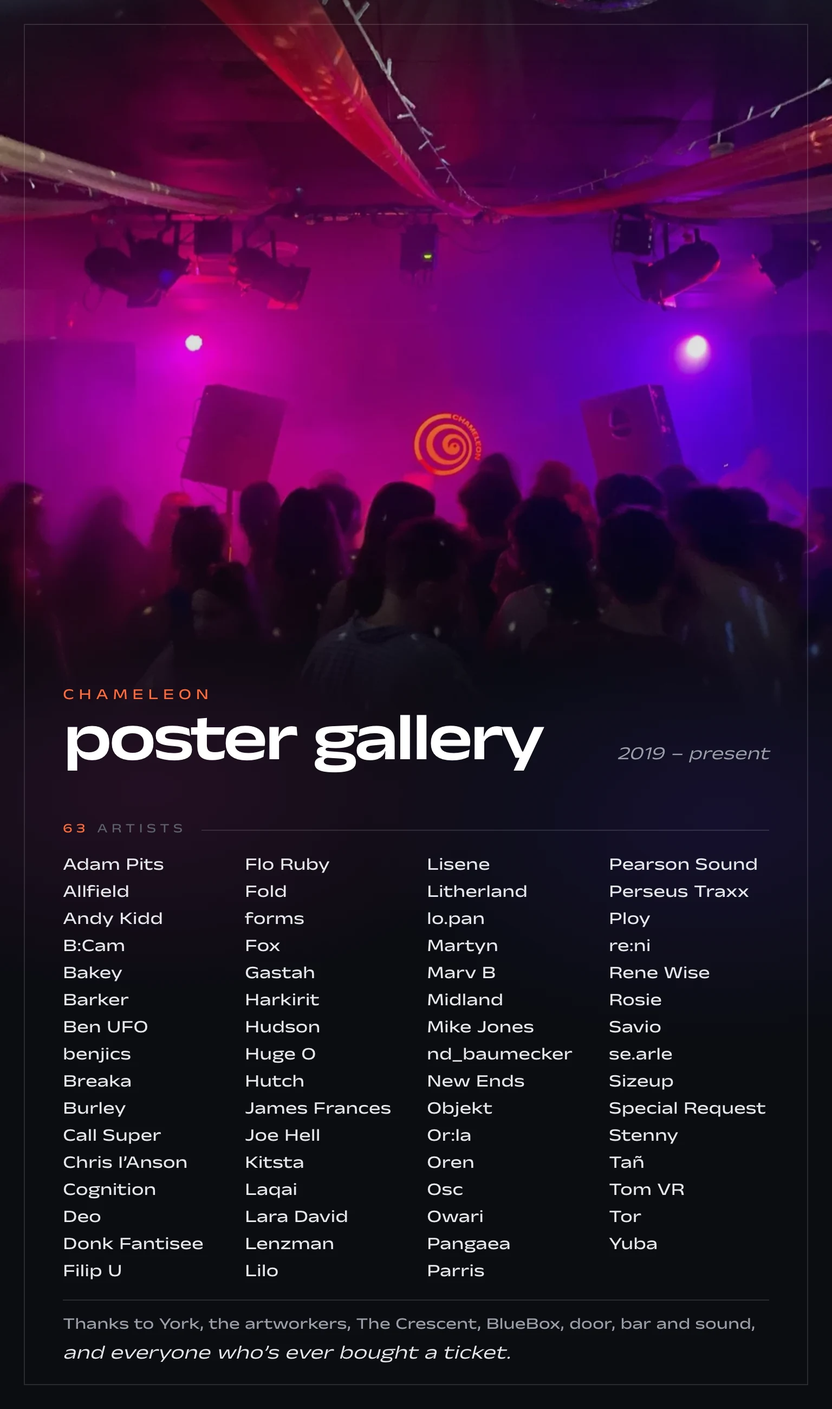
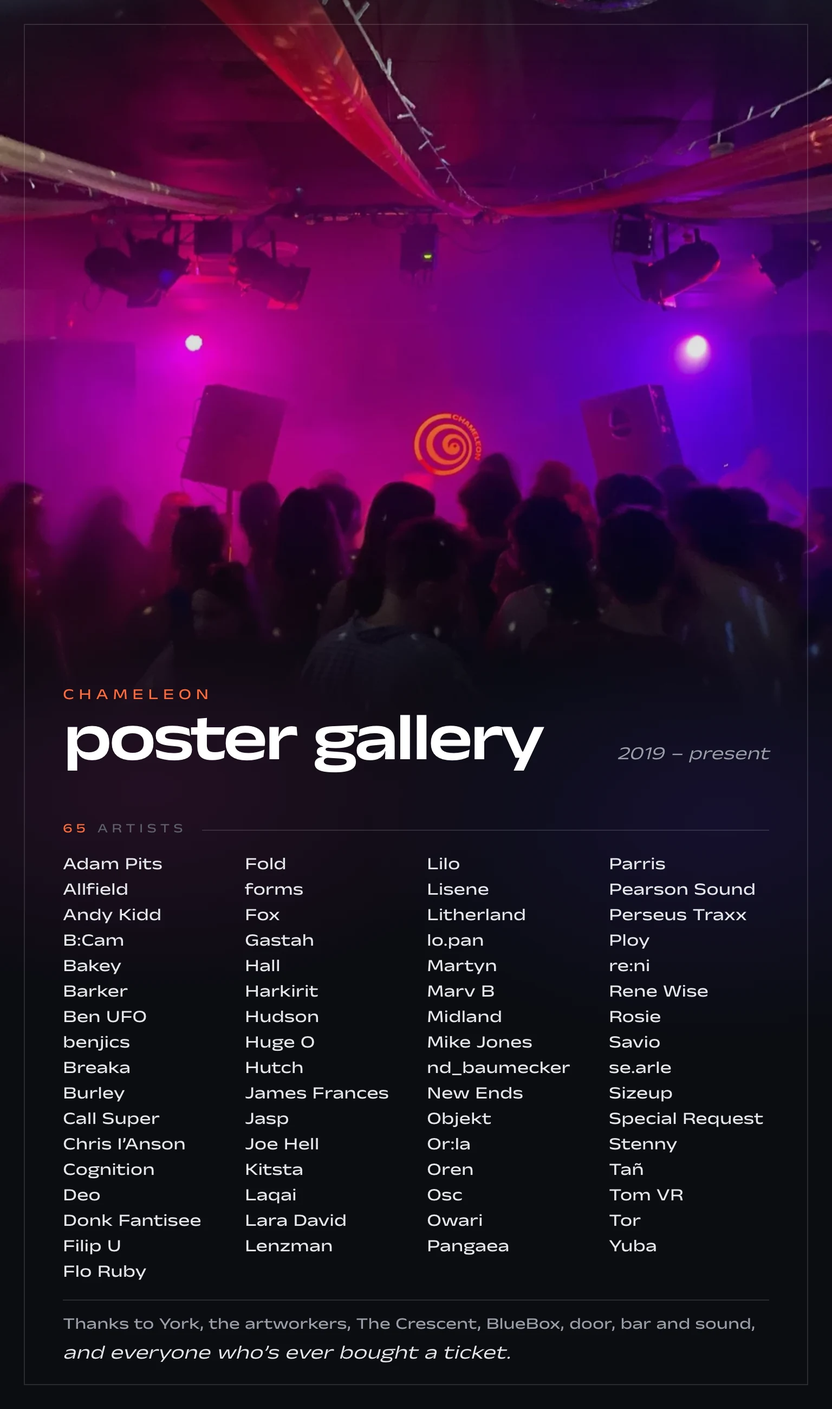
Chameleon gallery: complete the line-ups; Hall and Jasp on the plaque
- Free Party 2 (31 Jan 2025): benjics, Burley, Deo, Hall, Jasp, Laqai.
- Cham & Friends Vol. 3 (2 Feb 2024): Cognition added.
- Plaque: Hall and Jasp added (65 artists); rows tightened to fit a 17th.
- Chris I’Anson spelled with a capital I in the two line-ups that had an l.

diff --git a/CHAMELEON/app.bundle.min.js b/CHAMELEON/app.bundle.min.js
@@ -4172,7 +4172,7 @@ void main() {
 
 			gl_FragColor = SMAANeighborhoodBlendingPS( vUv, vOffset, tColor, tDiffuse );
 
-		}`}});var xh=sn(()=>{gn();is();na();na();na()});var ox=lu(()=>{gn();dh();fh();gh();Go();xh();var ra=[{img:"posters/nd_baumecker - 28 Nov 2026.webp",title:"nd_baumecker",meta:"28 Nov 2026",venue:"The Crescent, York",lineup:["nd_baumecker","Deo","Allfield"],url:"https://ra.co/events/2537359",featured:!0},{img:"posters/Chameleon - 3 Nights at the Crescent - 30 May 2026.webp",title:"Chameleon \xB7 3 Nights at the Crescent",meta:"24 May 2026, 30 May 2026, 5 Jun 2026",venue:"The Crescent, York",lineup:["Burley","Oren","Mike Jones","Allfield","B:Cam","Deo","Owari","Yuba","Osc"],url:"https://www.seetickets.com/event/chameleon-the-crescent-season-ticket/the-crescent/3634501"},{img:"posters/Midland & SR (Special Request) - 13 Feb 2026.webp",title:"Special Request, Midland, Rosie",meta:"13 Feb 2026",venue:"The Crescent, York",lineup:["Midland","Special Request","Rosie"]},{img:"posters/Call Super - Chameleon 6th Birthday - 12 Dec 2025.webp",title:"Call Super \xB7 Chameleon 6th Birthday",meta:"12 Dec 2025",venue:"Bluebox, York",lineup:["Call Super","Deo"]},{img:"posters/Objekt - 29 Nov 2025.webp",title:"Objekt",meta:"29 Nov 2025",venue:"The Crescent, York",lineup:["Objekt","Deo","B:Cam"]},{img:"posters/Deo b2b Parris - 2 May 2025.webp",title:"Deo b2b Parris",meta:"2 May 2025",venue:"The Crescent, York",lineup:["Deo","Parris"]},{img:"posters/Rene Wise - 14 Mar 2025.webp",title:"Rene Wise",meta:"14 Mar 2025",venue:"Bluebox, York",lineup:["Rene Wise","Deo","Oren"]},{img:"posters/Orla - 15 Feb 2025.webp",title:"Or:la",meta:"15 Feb 2025",venue:"The Crescent, York",lineup:["Or:la","Deo"]},{img:"posters/Chameleon Free Party - 2 - 31 Jan 2025.webp",title:"Chameleon Free Party \xB7 2",meta:"31 Jan 2025",venue:"Bluebox, York",lineup:[]},{img:"posters/Special Request b2b Hutch - 5th Birthday - 13 Dec 2024.webp",title:"Special Request b2b Hutch \xB7 5th Birthday",meta:"13 Dec 2024",venue:"Bluebox, York",lineup:["Special Request","Hutch","Allfield","Deo","James Frances","Mike Jones","se.arle"]},{img:"posters/Pearson Sound - 29 Nov 2024.webp",title:"Pearson Sound",meta:"29 Nov 2024",venue:"The Crescent, York",lineup:["Pearson Sound"]},{img:"posters/Chameleon Disco - 2 Nov 2024.webp",title:"Chameleon Disco",meta:"2 Nov 2024",venue:"Bluebox, York",lineup:["Filip U","Mike Jones","se.arle"]},{img:"posters/Chameleon x Meridian - Peckham Audio - 18 Oct 2024.webp",title:"Chameleon \xD7 Meridian \xB7 Peckham Audio",meta:"18 Oct 2024",venue:"Peckham Audio, London",lineup:["Deo","B:Cam","Flo Ruby","Allfield","Owari","forms","Yuba"]},{img:"posters/Chameleon Free Party - 21 Sep 2024.webp",title:"Chameleon Free Party",meta:"21 Sep 2024",venue:"Bluebox, York",lineup:["benjics","Harkirit","Deo"]},{img:"posters/Ben UFO - 10 Aug 2024.webp",title:"Ben UFO",meta:"10 Aug 2024",venue:"The Crescent, York",lineup:["Ben UFO","Deo"]},{img:"posters/OnRo - 29 Jun 2024.webp",title:"On Rotation",meta:"29 Jun 2024",venue:"Bluebox, York",lineup:["Adam Pits","Chris l'Anson","Lisene","Deo","se.arle"]},{img:"posters/Chameleon Techno Soundclash - 7 Jun 2024.webp",title:"A Techno Soundclash",meta:"7 Jun 2024",venue:"Bluebox, York",lineup:["Deo","Harkirit","Tor","Burley","Perseus Traxx","Andy Kidd"]},{img:"posters/Martyn - 4 May 2024.webp",title:"Martyn",meta:"4 May 2024",venue:"The Crescent, York",lineup:["Martyn"]},{img:"posters/Community Night - 19 Apr 2024.webp",title:"Community Night",meta:"19 Apr 2024",venue:"Bluebox, York",lineup:["Lilo","Filip U","benjics","Deo & Oren","Gastah & Laqai","Huge O","se.arle","lo.pan","Harkirit"]},{img:"posters/Fold - 22 Mar 2024.webp",title:"Fold",meta:"22 Mar 2024",venue:"Bluebox, York",lineup:["Fold"]},{img:"posters/Stenny - 1 Mar 2024.webp",title:"Stenny",meta:"1 Mar 2024",venue:"Bluebox, York",lineup:["Stenny","B:Cam"]},{img:"posters/Call Super - 16 Feb 2024.webp",title:"Call Super",meta:"16 Feb 2024",venue:"The Crescent, York",lineup:["Call Super","Deo"]},{img:"posters/Cham & Friends - Vol. 3 - 2 Feb 2024.webp",title:"Cham & Friends \xB7 Vol. 3",meta:"2 Feb 2024",venue:"Bluebox, York",lineup:["Oren"]},{img:"posters/Bakey b2b Breaka - 19 Jan 2024.webp",title:"Bakey & Breaka",meta:"19 Jan 2024",venue:"Bluebox, York",lineup:["Bakey","Breaka"]},{img:"posters/Chameleon 4th Birthday - 15 Dec 2023.webp",title:"Hutch \xB7 Chameleon 4th Birthday",meta:"15 Dec 2023",venue:"Bluebox, York",lineup:["Hutch","Deo","Allfield","Joe Hell"]},{img:"posters/Kitsta - 3 Nov 2023.webp",title:"Kitsta",meta:"3 Nov 2023",venue:"Bluebox, York",lineup:["Kitsta","se.arle"]},{img:"posters/Reni b2b Ploy - 13 Oct 2023.webp",title:"Re:ni b2b Ploy",meta:"13 Oct 2023",venue:"The Crescent, York",lineup:["re:ni","Ploy","Deo"]},{img:"posters/Residents Night - 22 Sep 2023.webp",title:"Residents Night",meta:"22 Sep 2023",venue:"Bluebox, York",lineup:["Allfield","B:Cam","Deo","Owari","Yuba"]},{img:"posters/OnRo x Chameleon - 9th Birthday - 23 Sep 2023.webp",title:"On Rotation",meta:"23 Sep 2023",venue:"Plant & Deck, Leeds",lineup:["Adam Pits","Chris l'Anson","Deo","Allfield","B:Cam"]},{img:"posters/Cham & Friends - Vol. 2 - 21 Jul 2023.webp",title:"Deo, Oren, se.arle",meta:"21 Jul 2023",venue:"Bluebox, York",lineup:["Deo","Oren","se.arle"]},{img:"posters/Midland - 9 Jun 2023.webp",title:"Midland",meta:"9 Jun 2023",venue:"The Crescent, York",lineup:["Midland","Lara David"]},{img:"posters/Deo - 2 Jun 2023.webp",title:"Deo",meta:"2 Jun 2023",venue:"Bluebox, York",lineup:["Deo"]},{img:"posters/Cham & Friends - Vol. 2 - 30 Apr 2023.webp",title:"Cham & Friends \xB7 Vol. 2",meta:"30 Apr 2023",venue:"Bluebox, York",lineup:["Litherland","B:Cam b2b Deo","se.arle","Yuba"]},{img:"posters/Cham & Friends - Vol. 1 - 14 Apr 2023.webp",title:"Cham & Friends \xB7 Vol. 1",meta:"14 Apr 2023",venue:"Bluebox, York",lineup:["Allfield","Oren","Harkirit","Sizeup"]},{img:"posters/Marv - 17 Mar 2023.webp",title:"Marv B",meta:"17 Mar 2023",venue:"Bluebox, York",lineup:["Marv B","Yuba"]},{img:"posters/Barker - 17 Feb 2023.webp",title:"Barker (Live)",meta:"17 Feb 2023",venue:"The Crescent, York",lineup:["Barker","Deo"]},{img:"posters/Tan - 3 Feb 2023.webp",title:"Ta\xF1",meta:"3 Feb 2023",venue:"Bluebox, York",lineup:["Ta\xF1","B:Cam","Allfield"]},{img:"posters/Space Cadets - 20 Jan 2023.webp",title:"Space Cadets",meta:"20 Jan 2023",venue:"Bluebox, York",lineup:["Adam Pits","Deo","Lisene"]},{img:"posters/Hutch - Chameleon 3rd Birthday - 3 Dec 2022.webp",title:"Hutch \xB7 Chameleon 3rd Birthday",meta:"3 Dec 2022",venue:"Bluebox, York",lineup:["Hutch","Allfield","B:Cam","Deo","New Ends","Yuba"]},{img:"posters/Pangaea - 14 Oct 2022.webp",title:"Pangaea",meta:"14 Oct 2022",venue:"The Crescent, York",lineup:["Pangaea","Deo"]},{img:"posters/Chameleon Residents - 29 Sep 2022.webp",title:"A Sum Of",meta:"29 Sep 2022",venue:"Bluebox, York",lineup:["Allfield","B:Cam","Deo","Owari","Yuba"]},{img:"posters/Breaka & Tom VR - 18 Jun 2022.webp",title:"Breaka & Tom VR",meta:"18 Jun 2022",venue:"The Crescent, York",lineup:["Breaka","Tom VR","Owari"]},{img:"posters/Chameleon Intimate Party - 17 Apr 2022.webp",title:"An Intimate Party",meta:"17 Apr 2022",venue:"Bluebox, York",lineup:["Deo","Allfield","Yuba","B:Cam"]},{img:"posters/The Chameleon - Residents - 18 Mar 2022.webp",title:"The Chameleon",meta:"18 Mar 2022",venue:"Bluebox, York",lineup:["Allfield","B:Cam","Deo","Owari","New Ends","Yuba"]},{img:"posters/Barker - 25 Feb 2022.webp",title:"Barker",meta:"25 Feb 2022",venue:"Bluebox, York",lineup:["Barker","Oren","Deo","Yuba"]},{img:"posters/Lenzman & Fox - 13 Feb 2022.webp",title:"Lenzman & Fox",meta:"13 Feb 2022",venue:"Bluebox, York",lineup:["Lenzman","Fox","Deo"]},{img:"posters/Adam Pits - 21 Jan 2022.webp",title:"Adam Pits",meta:"21 Jan 2022",venue:"Bluebox, York",lineup:["Adam Pits","Allfield","B:Cam","Deo","Yuba","Owari"]},{img:"posters/Back to Basics - 3 Dec 2021.webp",title:"Back to Basics",meta:"3 Dec 2021",venue:"Bluebox, York",lineup:["Allfield","B:Cam","Deo","Owari"]},{img:"posters/Hutch - 29 Oct 2021.webp",title:"Hutch",meta:"29 Oct 2021",venue:"Bluebox, York",lineup:["Hutch","Allfield","Deo","Savio","New Ends"]},{img:"posters/Send Return - 1 Oct 2021.webp",title:"Send / Return",meta:"1 Oct 2021",venue:"Bluebox, York",lineup:["Owari","Allfield","B:Cam","Deo"]},{img:"posters/Chameleon 002 x The Lounge - 21 Feb 2020.webp",title:"Chameleon 002 \xB7 The Lounge",meta:"21 Feb 2020",venue:"The Lounge, York",lineup:["Allfield","B:Cam","Deo","Hudson"]}];{let i={jan:0,feb:1,mar:2,apr:3,may:4,jun:5,jul:6,aug:7,sep:8,oct:9,nov:10,dec:11},e=r=>{if(!r)return 1/0;if(r=r.split(",")[0].trim(),/^\d{4}$/.test(r))return Date.UTC(+r,0,1);let o=r.match(/^(\d{1,2})\s+([A-Za-z]+)\s+(\d{4})$/);if(o){let a=i[o[2].toLowerCase().slice(0,3)];if(a!==void 0)return Date.UTC(+o[3],a,+o[1])}return 1/0};ra.sort((r,o)=>r.featured?-1:o.featured?1:e(r.meta)-e(o.meta));let t=[];for(let r of ra){let o=(r.meta||"").split(",").map(a=>a.trim()).filter(Boolean);for(let a of o)t.push({poster:r,time:e(a)})}t.sort((r,o)=>r.time-o.time);let n=t.length,s=new Map;t.forEach((r,o)=>{let a=o+1,l=s.get(r.poster);l?l.push(a):s.set(r.poster,[a])});for(let r of ra){let o=s.get(r)||[];if(o.length===0){r.indexLabel="";continue}let a=o[0],l=o[o.length-1];r.indexLabel=a===l?`${a} / ${n}`:`${a}\u2013${l} / ${n}`}}var vt={radius:18,height:6},vn=1.65,x0=1.5,vh=vt.radius-x0,v0=2,_0=window.matchMedia("(pointer: coarse)").matches||/Android|webOS|iPhone|iPad|iPod|BlackBerry|IEMobile|Opera Mini/i.test(navigator.userAgent),y0="v0.467",Pt=new Ps({antialias:!0,powerPreference:"high-performance",logarithmicDepthBuffer:!0});Pt.setPixelRatio(Math.min(window.devicePixelRatio,2));Pt.setSize(window.innerWidth,window.innerHeight);Pt.outputColorSpace=qe;Pt.toneMapping=No;Pt.toneMappingExposure=1.6;var Gt=Pt.domElement;document.getElementById("app").appendChild(Gt);var We=new Br;We.background=new _e("#000000");We.fog=new Fr("#000000",.03);var Re=new Ut(78,window.innerWidth/window.innerHeight,.05,600),M0=new P(0,vn,vt.radius*.3),Xe={active:!1,t0:0,duration:6800,fromPos:new P(5,5.5,vt.radius*10),toPos:M0.clone(),fromYaw:.1,toYaw:0,fromPitch:-.05,toPitch:0};Re.position.copy(Xe.fromPos);Re.lookAt(0,2,0);var tl=new Is,Dh=document.getElementById("loadbar"),_h=document.getElementById("loading"),Kn=document.getElementById("prompt");Kn.innerHTML=_0?'<kbd>swipe</kbd>look<span class="sep">\xB7</span><kbd>pinch</kbd>zoom<span class="sep">\xB7</span><kbd>tap</kbd>focus':'<kbd>drag</kbd>look<span class="sep">\xB7</span><kbd>wasd</kbd>move<span class="sep">\xB7</span><kbd>shift</kbd>run<span class="sep">\xB7</span><kbd>scroll</kbd>zoom<span class="sep">\xB7</span><kbd>click</kbd>focus';tl.onProgress=(i,e,t)=>{let n=t?Math.round(e/t*100):0;Dh.style.width=n+"%"};tl.onLoad=()=>{Dh.style.width="100%",setTimeout(()=>_h.classList.add("hidden"),200),setTimeout(()=>_h.remove(),1200),setTimeout(()=>{Xe.active=!0,Xe.t0=performance.now()},280)};var ds=new Ns(tl);We.add(new Gr(8030376,526864,1.55));var Ih=new Yr(11845840,.18);Ih.position.set(-8,18,-6);We.add(Ih);var Uh=(()=>{let i=[[0,0],[.15,.08],[.35,.55],[.5,1],[.65,.55],[.85,.08],[1,0]],e=512,t=new Uint8Array(e*4);for(let s=0;s<e;s++){let r=s/(e-1),o=Math.max(1,i.findIndex(c=>c[0]>=r)),a=i[o-1],l=i[o];t.set([255,250,235,Math.round((a[1]+(l[1]-a[1])*(r-a[0])/(l[0]-a[0]))*255)],s*4)}let n=new ji(t,1,e,kt);return n.colorSpace=qe,n.magFilter=n.minFilter=At,n.needsUpdate=!0,n})(),S0=(()=>{let e=new Uint8Array(65536),t=new Float32Array(128*128);for(let s of[4,8,16]){let r=Float32Array.from({length:s*s},Math.random),o=4/s;for(let a=0;a<128;a++)for(let l=0;l<128;l++){let c=l/128*s,u=a/128*s,h=c|0,d=u|0,m=c-h,g=u-d,x=m*m*(3-2*m),p=g*g*(3-2*g),f=(E,_)=>r[_%s*s+E%s];t[a*128+l]+=o*((f(h,d)*(1-x)+f(h+1,d)*x)*(1-p)+(f(h,d+1)*(1-x)+f(h+1,d+1)*x)*p)}}for(let s=0;s<128*128;s++)e.set([255,255,255,255].fill(Math.min(255,t[s]/1.75*255),0,3),s*4);let n=new ji(e,128,128,kt);return n.wrapS=n.wrapT=Xn,n.magFilter=n.minFilter=At,n.needsUpdate=!0,n})();function Nh(i){return i.onBeforeCompile=e=>{e.uniforms.uHaze={value:S0},e.uniforms.uTime=Hs.uniforms.time,e.vertexShader=`varying float vEdge;
+		}`}});var xh=sn(()=>{gn();is();na();na();na()});var ox=lu(()=>{gn();dh();fh();gh();Go();xh();var ra=[{img:"posters/nd_baumecker - 28 Nov 2026.webp",title:"nd_baumecker",meta:"28 Nov 2026",venue:"The Crescent, York",lineup:["nd_baumecker","Deo","Allfield"],url:"https://ra.co/events/2537359",featured:!0},{img:"posters/Chameleon - 3 Nights at the Crescent - 30 May 2026.webp",title:"Chameleon \xB7 3 Nights at the Crescent",meta:"24 May 2026, 30 May 2026, 5 Jun 2026",venue:"The Crescent, York",lineup:["Burley","Oren","Mike Jones","Allfield","B:Cam","Deo","Owari","Yuba","Osc"],url:"https://www.seetickets.com/event/chameleon-the-crescent-season-ticket/the-crescent/3634501"},{img:"posters/Midland & SR (Special Request) - 13 Feb 2026.webp",title:"Special Request, Midland, Rosie",meta:"13 Feb 2026",venue:"The Crescent, York",lineup:["Midland","Special Request","Rosie"]},{img:"posters/Call Super - Chameleon 6th Birthday - 12 Dec 2025.webp",title:"Call Super \xB7 Chameleon 6th Birthday",meta:"12 Dec 2025",venue:"Bluebox, York",lineup:["Call Super","Deo"]},{img:"posters/Objekt - 29 Nov 2025.webp",title:"Objekt",meta:"29 Nov 2025",venue:"The Crescent, York",lineup:["Objekt","Deo","B:Cam"]},{img:"posters/Deo b2b Parris - 2 May 2025.webp",title:"Deo b2b Parris",meta:"2 May 2025",venue:"The Crescent, York",lineup:["Deo","Parris"]},{img:"posters/Rene Wise - 14 Mar 2025.webp",title:"Rene Wise",meta:"14 Mar 2025",venue:"Bluebox, York",lineup:["Rene Wise","Deo","Oren"]},{img:"posters/Orla - 15 Feb 2025.webp",title:"Or:la",meta:"15 Feb 2025",venue:"The Crescent, York",lineup:["Or:la","Deo"]},{img:"posters/Chameleon Free Party - 2 - 31 Jan 2025.webp",title:"Chameleon Free Party \xB7 2",meta:"31 Jan 2025",venue:"Bluebox, York",lineup:["benjics","Burley","Deo","Hall","Jasp","Laqai"]},{img:"posters/Special Request b2b Hutch - 5th Birthday - 13 Dec 2024.webp",title:"Special Request b2b Hutch \xB7 5th Birthday",meta:"13 Dec 2024",venue:"Bluebox, York",lineup:["Special Request","Hutch","Allfield","Deo","James Frances","Mike Jones","se.arle"]},{img:"posters/Pearson Sound - 29 Nov 2024.webp",title:"Pearson Sound",meta:"29 Nov 2024",venue:"The Crescent, York",lineup:["Pearson Sound"]},{img:"posters/Chameleon Disco - 2 Nov 2024.webp",title:"Chameleon Disco",meta:"2 Nov 2024",venue:"Bluebox, York",lineup:["Filip U","Mike Jones","se.arle"]},{img:"posters/Chameleon x Meridian - Peckham Audio - 18 Oct 2024.webp",title:"Chameleon \xD7 Meridian \xB7 Peckham Audio",meta:"18 Oct 2024",venue:"Peckham Audio, London",lineup:["Deo","B:Cam","Flo Ruby","Allfield","Owari","forms","Yuba"]},{img:"posters/Chameleon Free Party - 21 Sep 2024.webp",title:"Chameleon Free Party",meta:"21 Sep 2024",venue:"Bluebox, York",lineup:["benjics","Harkirit","Deo"]},{img:"posters/Ben UFO - 10 Aug 2024.webp",title:"Ben UFO",meta:"10 Aug 2024",venue:"The Crescent, York",lineup:["Ben UFO","Deo"]},{img:"posters/OnRo - 29 Jun 2024.webp",title:"On Rotation",meta:"29 Jun 2024",venue:"Bluebox, York",lineup:["Adam Pits","Chris I\u2019Anson","Lisene","Deo","se.arle"]},{img:"posters/Chameleon Techno Soundclash - 7 Jun 2024.webp",title:"A Techno Soundclash",meta:"7 Jun 2024",venue:"Bluebox, York",lineup:["Deo","Harkirit","Tor","Burley","Perseus Traxx","Andy Kidd"]},{img:"posters/Martyn - 4 May 2024.webp",title:"Martyn",meta:"4 May 2024",venue:"The Crescent, York",lineup:["Martyn"]},{img:"posters/Community Night - 19 Apr 2024.webp",title:"Community Night",meta:"19 Apr 2024",venue:"Bluebox, York",lineup:["Lilo","Filip U","benjics","Deo & Oren","Gastah & Laqai","Huge O","se.arle","lo.pan","Harkirit"]},{img:"posters/Fold - 22 Mar 2024.webp",title:"Fold",meta:"22 Mar 2024",venue:"Bluebox, York",lineup:["Fold"]},{img:"posters/Stenny - 1 Mar 2024.webp",title:"Stenny",meta:"1 Mar 2024",venue:"Bluebox, York",lineup:["Stenny","B:Cam"]},{img:"posters/Call Super - 16 Feb 2024.webp",title:"Call Super",meta:"16 Feb 2024",venue:"The Crescent, York",lineup:["Call Super","Deo"]},{img:"posters/Cham & Friends - Vol. 3 - 2 Feb 2024.webp",title:"Cham & Friends \xB7 Vol. 3",meta:"2 Feb 2024",venue:"Bluebox, York",lineup:["Cognition","Oren"]},{img:"posters/Bakey b2b Breaka - 19 Jan 2024.webp",title:"Bakey & Breaka",meta:"19 Jan 2024",venue:"Bluebox, York",lineup:["Bakey","Breaka"]},{img:"posters/Chameleon 4th Birthday - 15 Dec 2023.webp",title:"Hutch \xB7 Chameleon 4th Birthday",meta:"15 Dec 2023",venue:"Bluebox, York",lineup:["Hutch","Deo","Allfield","Joe Hell"]},{img:"posters/Kitsta - 3 Nov 2023.webp",title:"Kitsta",meta:"3 Nov 2023",venue:"Bluebox, York",lineup:["Kitsta","se.arle"]},{img:"posters/Reni b2b Ploy - 13 Oct 2023.webp",title:"Re:ni b2b Ploy",meta:"13 Oct 2023",venue:"The Crescent, York",lineup:["re:ni","Ploy","Deo"]},{img:"posters/Residents Night - 22 Sep 2023.webp",title:"Residents Night",meta:"22 Sep 2023",venue:"Bluebox, York",lineup:["Allfield","B:Cam","Deo","Owari","Yuba"]},{img:"posters/OnRo x Chameleon - 9th Birthday - 23 Sep 2023.webp",title:"On Rotation",meta:"23 Sep 2023",venue:"Plant & Deck, Leeds",lineup:["Adam Pits","Chris I\u2019Anson","Deo","Allfield","B:Cam"]},{img:"posters/Cham & Friends - Vol. 2 - 21 Jul 2023.webp",title:"Deo, Oren, se.arle",meta:"21 Jul 2023",venue:"Bluebox, York",lineup:["Deo","Oren","se.arle"]},{img:"posters/Midland - 9 Jun 2023.webp",title:"Midland",meta:"9 Jun 2023",venue:"The Crescent, York",lineup:["Midland","Lara David"]},{img:"posters/Deo - 2 Jun 2023.webp",title:"Deo",meta:"2 Jun 2023",venue:"Bluebox, York",lineup:["Deo"]},{img:"posters/Cham & Friends - Vol. 2 - 30 Apr 2023.webp",title:"Cham & Friends \xB7 Vol. 2",meta:"30 Apr 2023",venue:"Bluebox, York",lineup:["Litherland","B:Cam b2b Deo","se.arle","Yuba"]},{img:"posters/Cham & Friends - Vol. 1 - 14 Apr 2023.webp",title:"Cham & Friends \xB7 Vol. 1",meta:"14 Apr 2023",venue:"Bluebox, York",lineup:["Allfield","Oren","Harkirit","Sizeup"]},{img:"posters/Marv - 17 Mar 2023.webp",title:"Marv B",meta:"17 Mar 2023",venue:"Bluebox, York",lineup:["Marv B","Yuba"]},{img:"posters/Barker - 17 Feb 2023.webp",title:"Barker (Live)",meta:"17 Feb 2023",venue:"The Crescent, York",lineup:["Barker","Deo"]},{img:"posters/Tan - 3 Feb 2023.webp",title:"Ta\xF1",meta:"3 Feb 2023",venue:"Bluebox, York",lineup:["Ta\xF1","B:Cam","Allfield"]},{img:"posters/Space Cadets - 20 Jan 2023.webp",title:"Space Cadets",meta:"20 Jan 2023",venue:"Bluebox, York",lineup:["Adam Pits","Deo","Lisene"]},{img:"posters/Hutch - Chameleon 3rd Birthday - 3 Dec 2022.webp",title:"Hutch \xB7 Chameleon 3rd Birthday",meta:"3 Dec 2022",venue:"Bluebox, York",lineup:["Hutch","Allfield","B:Cam","Deo","New Ends","Yuba"]},{img:"posters/Pangaea - 14 Oct 2022.webp",title:"Pangaea",meta:"14 Oct 2022",venue:"The Crescent, York",lineup:["Pangaea","Deo"]},{img:"posters/Chameleon Residents - 29 Sep 2022.webp",title:"A Sum Of",meta:"29 Sep 2022",venue:"Bluebox, York",lineup:["Allfield","B:Cam","Deo","Owari","Yuba"]},{img:"posters/Breaka & Tom VR - 18 Jun 2022.webp",title:"Breaka & Tom VR",meta:"18 Jun 2022",venue:"The Crescent, York",lineup:["Breaka","Tom VR","Owari"]},{img:"posters/Chameleon Intimate Party - 17 Apr 2022.webp",title:"An Intimate Party",meta:"17 Apr 2022",venue:"Bluebox, York",lineup:["Deo","Allfield","Yuba","B:Cam"]},{img:"posters/The Chameleon - Residents - 18 Mar 2022.webp",title:"The Chameleon",meta:"18 Mar 2022",venue:"Bluebox, York",lineup:["Allfield","B:Cam","Deo","Owari","New Ends","Yuba"]},{img:"posters/Barker - 25 Feb 2022.webp",title:"Barker",meta:"25 Feb 2022",venue:"Bluebox, York",lineup:["Barker","Oren","Deo","Yuba"]},{img:"posters/Lenzman & Fox - 13 Feb 2022.webp",title:"Lenzman & Fox",meta:"13 Feb 2022",venue:"Bluebox, York",lineup:["Lenzman","Fox","Deo"]},{img:"posters/Adam Pits - 21 Jan 2022.webp",title:"Adam Pits",meta:"21 Jan 2022",venue:"Bluebox, York",lineup:["Adam Pits","Allfield","B:Cam","Deo","Yuba","Owari"]},{img:"posters/Back to Basics - 3 Dec 2021.webp",title:"Back to Basics",meta:"3 Dec 2021",venue:"Bluebox, York",lineup:["Allfield","B:Cam","Deo","Owari"]},{img:"posters/Hutch - 29 Oct 2021.webp",title:"Hutch",meta:"29 Oct 2021",venue:"Bluebox, York",lineup:["Hutch","Allfield","Deo","Savio","New Ends"]},{img:"posters/Send Return - 1 Oct 2021.webp",title:"Send / Return",meta:"1 Oct 2021",venue:"Bluebox, York",lineup:["Owari","Allfield","B:Cam","Deo"]},{img:"posters/Chameleon 002 x The Lounge - 21 Feb 2020.webp",title:"Chameleon 002 \xB7 The Lounge",meta:"21 Feb 2020",venue:"The Lounge, York",lineup:["Allfield","B:Cam","Deo","Hudson"]}];{let i={jan:0,feb:1,mar:2,apr:3,may:4,jun:5,jul:6,aug:7,sep:8,oct:9,nov:10,dec:11},e=r=>{if(!r)return 1/0;if(r=r.split(",")[0].trim(),/^\d{4}$/.test(r))return Date.UTC(+r,0,1);let o=r.match(/^(\d{1,2})\s+([A-Za-z]+)\s+(\d{4})$/);if(o){let a=i[o[2].toLowerCase().slice(0,3)];if(a!==void 0)return Date.UTC(+o[3],a,+o[1])}return 1/0};ra.sort((r,o)=>r.featured?-1:o.featured?1:e(r.meta)-e(o.meta));let t=[];for(let r of ra){let o=(r.meta||"").split(",").map(a=>a.trim()).filter(Boolean);for(let a of o)t.push({poster:r,time:e(a)})}t.sort((r,o)=>r.time-o.time);let n=t.length,s=new Map;t.forEach((r,o)=>{let a=o+1,l=s.get(r.poster);l?l.push(a):s.set(r.poster,[a])});for(let r of ra){let o=s.get(r)||[];if(o.length===0){r.indexLabel="";continue}let a=o[0],l=o[o.length-1];r.indexLabel=a===l?`${a} / ${n}`:`${a}\u2013${l} / ${n}`}}var vt={radius:18,height:6},vn=1.65,x0=1.5,vh=vt.radius-x0,v0=2,_0=window.matchMedia("(pointer: coarse)").matches||/Android|webOS|iPhone|iPad|iPod|BlackBerry|IEMobile|Opera Mini/i.test(navigator.userAgent),y0="v0.468",Pt=new Ps({antialias:!0,powerPreference:"high-performance",logarithmicDepthBuffer:!0});Pt.setPixelRatio(Math.min(window.devicePixelRatio,2));Pt.setSize(window.innerWidth,window.innerHeight);Pt.outputColorSpace=qe;Pt.toneMapping=No;Pt.toneMappingExposure=1.6;var Gt=Pt.domElement;document.getElementById("app").appendChild(Gt);var We=new Br;We.background=new _e("#000000");We.fog=new Fr("#000000",.03);var Re=new Ut(78,window.innerWidth/window.innerHeight,.05,600),M0=new P(0,vn,vt.radius*.3),Xe={active:!1,t0:0,duration:6800,fromPos:new P(5,5.5,vt.radius*10),toPos:M0.clone(),fromYaw:.1,toYaw:0,fromPitch:-.05,toPitch:0};Re.position.copy(Xe.fromPos);Re.lookAt(0,2,0);var tl=new Is,Dh=document.getElementById("loadbar"),_h=document.getElementById("loading"),Kn=document.getElementById("prompt");Kn.innerHTML=_0?'<kbd>swipe</kbd>look<span class="sep">\xB7</span><kbd>pinch</kbd>zoom<span class="sep">\xB7</span><kbd>tap</kbd>focus':'<kbd>drag</kbd>look<span class="sep">\xB7</span><kbd>wasd</kbd>move<span class="sep">\xB7</span><kbd>shift</kbd>run<span class="sep">\xB7</span><kbd>scroll</kbd>zoom<span class="sep">\xB7</span><kbd>click</kbd>focus';tl.onProgress=(i,e,t)=>{let n=t?Math.round(e/t*100):0;Dh.style.width=n+"%"};tl.onLoad=()=>{Dh.style.width="100%",setTimeout(()=>_h.classList.add("hidden"),200),setTimeout(()=>_h.remove(),1200),setTimeout(()=>{Xe.active=!0,Xe.t0=performance.now()},280)};var ds=new Ns(tl);We.add(new Gr(8030376,526864,1.55));var Ih=new Yr(11845840,.18);Ih.position.set(-8,18,-6);We.add(Ih);var Uh=(()=>{let i=[[0,0],[.15,.08],[.35,.55],[.5,1],[.65,.55],[.85,.08],[1,0]],e=512,t=new Uint8Array(e*4);for(let s=0;s<e;s++){let r=s/(e-1),o=Math.max(1,i.findIndex(c=>c[0]>=r)),a=i[o-1],l=i[o];t.set([255,250,235,Math.round((a[1]+(l[1]-a[1])*(r-a[0])/(l[0]-a[0]))*255)],s*4)}let n=new ji(t,1,e,kt);return n.colorSpace=qe,n.magFilter=n.minFilter=At,n.needsUpdate=!0,n})(),S0=(()=>{let e=new Uint8Array(65536),t=new Float32Array(128*128);for(let s of[4,8,16]){let r=Float32Array.from({length:s*s},Math.random),o=4/s;for(let a=0;a<128;a++)for(let l=0;l<128;l++){let c=l/128*s,u=a/128*s,h=c|0,d=u|0,m=c-h,g=u-d,x=m*m*(3-2*m),p=g*g*(3-2*g),f=(E,_)=>r[_%s*s+E%s];t[a*128+l]+=o*((f(h,d)*(1-x)+f(h+1,d)*x)*(1-p)+(f(h,d+1)*(1-x)+f(h+1,d+1)*x)*p)}}for(let s=0;s<128*128;s++)e.set([255,255,255,255].fill(Math.min(255,t[s]/1.75*255),0,3),s*4);let n=new ji(e,128,128,kt);return n.wrapS=n.wrapT=Xn,n.magFilter=n.minFilter=At,n.needsUpdate=!0,n})();function Nh(i){return i.onBeforeCompile=e=>{e.uniforms.uHaze={value:S0},e.uniforms.uTime=Hs.uniforms.time,e.vertexShader=`varying float vEdge;
 `+e.vertexShader.replace("#include <project_vertex>",`#include <project_vertex>
   vEdge = abs(dot(normalize(normal.xz), normalize(cameraPosition.xz - position.xz)));`),e.fragmentShader=`varying float vEdge;
 uniform sampler2D uHaze;

diff --git a/CHAMELEON/app.js b/CHAMELEON/app.js
@@ -25,7 +25,7 @@ const POSTERS = [
   { img: 'posters/Deo b2b Parris - 2 May 2025.webp',                         title: 'Deo b2b Parris',                       meta: '2 May 2025',  venue: 'The Crescent, York', lineup: ['Deo', 'Parris'] },
   { img: 'posters/Rene Wise - 14 Mar 2025.webp',                             title: 'Rene Wise',                            meta: '14 Mar 2025', venue: 'Bluebox, York',     lineup: ['Rene Wise', 'Deo', 'Oren'] },
   { img: 'posters/Orla - 15 Feb 2025.webp',                                  title: 'Or:la',                                meta: '15 Feb 2025', venue: 'The Crescent, York', lineup: ['Or:la', 'Deo'] },
-  { img: 'posters/Chameleon Free Party - 2 - 31 Jan 2025.webp',              title: 'Chameleon Free Party · 2',             meta: '31 Jan 2025', venue: 'Bluebox, York',     lineup: [] },
+  { img: 'posters/Chameleon Free Party - 2 - 31 Jan 2025.webp',              title: 'Chameleon Free Party · 2',             meta: '31 Jan 2025', venue: 'Bluebox, York',     lineup: ['benjics', 'Burley', 'Deo', 'Hall', 'Jasp', 'Laqai'] },
 
   // ---- 2024
   { img: 'posters/Special Request b2b Hutch - 5th Birthday - 13 Dec 2024.webp', title: 'Special Request b2b Hutch · 5th Birthday', meta: '13 Dec 2024', venue: 'Bluebox, York',         lineup: ['Special Request', 'Hutch', 'Allfield', 'Deo', 'James Frances', 'Mike Jones', 'se.arle'] },
@@ -34,14 +34,14 @@ const POSTERS = [
   { img: 'posters/Chameleon x Meridian - Peckham Audio - 18 Oct 2024.webp',   title: 'Chameleon × Meridian · Peckham Audio',   meta: '18 Oct 2024', venue: 'Peckham Audio, London', lineup: ['Deo', 'B:Cam', 'Flo Ruby', 'Allfield', 'Owari', 'forms', 'Yuba'] },
   { img: 'posters/Chameleon Free Party - 21 Sep 2024.webp',                   title: 'Chameleon Free Party',                   meta: '21 Sep 2024', venue: 'Bluebox, York',         lineup: ['benjics', 'Harkirit', 'Deo'] },
   { img: 'posters/Ben UFO - 10 Aug 2024.webp',                                title: 'Ben UFO',                                meta: '10 Aug 2024', venue: 'The Crescent, York',    lineup: ['Ben UFO', 'Deo'] },
-  { img: 'posters/OnRo - 29 Jun 2024.webp',                                   title: 'On Rotation',                            meta: '29 Jun 2024', venue: 'Bluebox, York',         lineup: ['Adam Pits', "Chris l'Anson", 'Lisene', 'Deo', 'se.arle'] },
+  { img: 'posters/OnRo - 29 Jun 2024.webp',                                   title: 'On Rotation',                            meta: '29 Jun 2024', venue: 'Bluebox, York',         lineup: ['Adam Pits', "Chris I’Anson", 'Lisene', 'Deo', 'se.arle'] },
   { img: 'posters/Chameleon Techno Soundclash - 7 Jun 2024.webp',             title: 'A Techno Soundclash',                    meta: '7 Jun 2024',  venue: 'Bluebox, York',         lineup: ['Deo', 'Harkirit', 'Tor', 'Burley', 'Perseus Traxx', 'Andy Kidd'] },
   { img: 'posters/Martyn - 4 May 2024.webp',                                  title: 'Martyn',                                 meta: '4 May 2024',  venue: 'The Crescent, York',    lineup: ['Martyn'] },
   { img: 'posters/Community Night - 19 Apr 2024.webp',                        title: 'Community Night',                        meta: '19 Apr 2024', venue: 'Bluebox, York',         lineup: ['Lilo', 'Filip U', 'benjics', 'Deo & Oren', 'Gastah & Laqai', 'Huge O', 'se.arle', 'lo.pan', 'Harkirit'] },
   { img: 'posters/Fold - 22 Mar 2024.webp',                                   title: 'Fold',                                   meta: '22 Mar 2024', venue: 'Bluebox, York',         lineup: ['Fold'] },
   { img: 'posters/Stenny - 1 Mar 2024.webp',                                  title: 'Stenny',                                 meta: '1 Mar 2024',  venue: 'Bluebox, York',         lineup: ['Stenny', 'B:Cam'] },
   { img: 'posters/Call Super - 16 Feb 2024.webp',                             title: 'Call Super',                             meta: '16 Feb 2024', venue: 'The Crescent, York',    lineup: ['Call Super', 'Deo'] },
-  { img: 'posters/Cham & Friends - Vol. 3 - 2 Feb 2024.webp',                 title: 'Cham & Friends · Vol. 3',                meta: '2 Feb 2024',  venue: 'Bluebox, York',         lineup: ['Oren'] },
+  { img: 'posters/Cham & Friends - Vol. 3 - 2 Feb 2024.webp',                 title: 'Cham & Friends · Vol. 3',                meta: '2 Feb 2024',  venue: 'Bluebox, York',         lineup: ['Cognition', 'Oren'] },
   { img: 'posters/Bakey b2b Breaka - 19 Jan 2024.webp',                       title: 'Bakey & Breaka',                         meta: '19 Jan 2024', venue: 'Bluebox, York',         lineup: ['Bakey', 'Breaka'] },
 
   // ---- 2023
@@ -49,7 +49,7 @@ const POSTERS = [
   { img: 'posters/Kitsta - 3 Nov 2023.webp',                                  title: 'Kitsta',                                 meta: '3 Nov 2023',  venue: 'Bluebox, York',         lineup: ['Kitsta', 'se.arle'] },
   { img: 'posters/Reni b2b Ploy - 13 Oct 2023.webp',                          title: 'Re:ni b2b Ploy',                         meta: '13 Oct 2023', venue: 'The Crescent, York',    lineup: ['re:ni', 'Ploy', 'Deo'] },
   { img: 'posters/Residents Night - 22 Sep 2023.webp',                        title: 'Residents Night',                        meta: '22 Sep 2023', venue: 'Bluebox, York',         lineup: ['Allfield', 'B:Cam', 'Deo', 'Owari', 'Yuba'] },
-  { img: 'posters/OnRo x Chameleon - 9th Birthday - 23 Sep 2023.webp',        title: 'On Rotation',                            meta: '23 Sep 2023',  venue: 'Plant & Deck, Leeds',   lineup: ['Adam Pits', "Chris l'Anson", 'Deo', 'Allfield', 'B:Cam'] },
+  { img: 'posters/OnRo x Chameleon - 9th Birthday - 23 Sep 2023.webp',        title: 'On Rotation',                            meta: '23 Sep 2023',  venue: 'Plant & Deck, Leeds',   lineup: ['Adam Pits', "Chris I’Anson", 'Deo', 'Allfield', 'B:Cam'] },
   { img: 'posters/Cham & Friends - Vol. 2 - 21 Jul 2023.webp',                title: 'Deo, Oren, se.arle',                     meta: '21 Jul 2023', venue: 'Bluebox, York',         lineup: ['Deo', 'Oren', 'se.arle'] },
   { img: 'posters/Midland - 9 Jun 2023.webp',                                 title: 'Midland',                                meta: '9 Jun 2023',  venue: 'The Crescent, York',    lineup: ['Midland', 'Lara David'] },
   { img: 'posters/Deo - 2 Jun 2023.webp',                                     title: 'Deo',                                    meta: '2 Jun 2023',  venue: 'Bluebox, York',         lineup: ['Deo'] },

diff --git a/CHAMELEON/plaque-src.html b/CHAMELEON/plaque-src.html
@@ -40,7 +40,7 @@
 
   .names { position: absolute; left: 116px; right: 96px; top: 1572px; display: grid; grid-template-columns: repeat(4, 1fr); column-gap: 20px; }
   .names ul { list-style: none; }
-  .names li { height: 50px; font-size: 32.5px; font-weight: 500; white-space: nowrap; }
+  .names li { height: 47px; font-size: 32px; font-weight: 500; white-space: nowrap; }   /* 17 rows fit above the rule; a 69th name needs this tightened again */
 
   .rule { position: absolute; left: 116px; right: 116px; top: 2398px; height: 2px; background: var(--line); }
   .thanks { position: absolute; left: 116px; right: 116px; top: 2422px; font-size: 30px; font-weight: 500; color: var(--soft); white-space: nowrap; }
@@ -64,7 +64,7 @@
 <div class="last">and everyone who’s ever bought a ticket.</div>
 
 <script>
-const NAMES = ['Adam Pits', 'Allfield', 'Andy Kidd', 'B:Cam', 'Bakey', 'Barker', 'nd_baumecker', 'Ben UFO', 'benjics', 'Breaka', 'Burley', 'Call Super', 'Chris I’Anson', 'Cognition', 'Deo', 'Donk Fantisee', 'Filip U', 'Flo Ruby', 'Fold', 'forms', 'Fox', 'Gastah', 'Harkirit', 'Hudson', 'Huge O', 'Hutch', 'James Frances', 'Joe Hell', 'Kitsta', 'Laqai', 'Lara David', 'Lenzman', 'Lilo', 'Lisene', 'Litherland', 'lo.pan', 'Martyn', 'Marv B', 'Midland', 'Mike Jones', 'New Ends', 'Objekt', 'Or:la', 'Oren', 'Osc', 'Owari', 'Pangaea', 'Parris', 'Pearson Sound', 'Perseus Traxx', 'Ploy', 're:ni', 'Rene Wise', 'Rosie', 'Savio', 'se.arle', 'Sizeup', 'Special Request', 'Stenny', 'Tañ', 'Tom VR', 'Tor', 'Yuba'];
+const NAMES = ['Adam Pits', 'Allfield', 'Andy Kidd', 'B:Cam', 'Bakey', 'Barker', 'nd_baumecker', 'Ben UFO', 'benjics', 'Breaka', 'Burley', 'Call Super', 'Chris I’Anson', 'Cognition', 'Deo', 'Donk Fantisee', 'Filip U', 'Flo Ruby', 'Fold', 'forms', 'Fox', 'Gastah', 'Hall', 'Harkirit', 'Hudson', 'Huge O', 'Hutch', 'James Frances', 'Jasp', 'Joe Hell', 'Kitsta', 'Laqai', 'Lara David', 'Lenzman', 'Lilo', 'Lisene', 'Litherland', 'lo.pan', 'Martyn', 'Marv B', 'Midland', 'Mike Jones', 'New Ends', 'Objekt', 'Or:la', 'Oren', 'Osc', 'Owari', 'Pangaea', 'Parris', 'Pearson Sound', 'Perseus Traxx', 'Ploy', 're:ni', 'Rene Wise', 'Rosie', 'Savio', 'se.arle', 'Sizeup', 'Special Request', 'Stenny', 'Tañ', 'Tom VR', 'Tor', 'Yuba'];
 const names = [...NAMES].sort((a, b) => a.localeCompare(b, 'en', { sensitivity: 'base' }));
 // Four columns, alphabetical going down; the first columns take the odd ones out.
 const base = Math.floor(names.length / 4), rem = names.length % 4; let at = 0;
